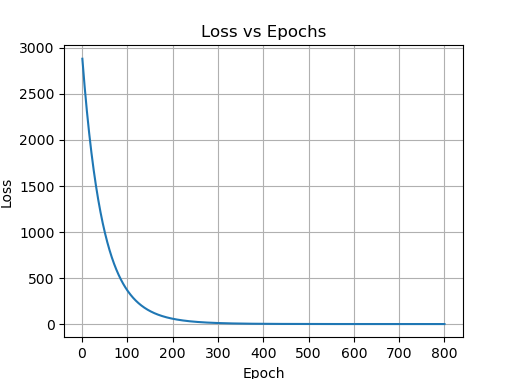
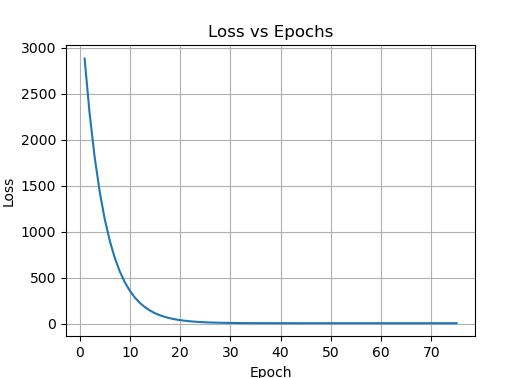
Loss gradient fixed

Changed region(s): [[0.0, 0.0582, 0.9027, 1.0]]

diff --git a/test/src/main.cpp b/test/src/main.cpp
@@ -62,9 +62,12 @@ void training() {
 
     // Linear regression training
     int epochs = 75;
-    double learningRate = 1.5e-8;
+    double learningRate = 1e-7;
 
     // Train
+    lr::LinearRegression::ExponentialDecay exponentialDecay(learningRate, 0.01);
+    //linearRegression.setExponentialDecay(exponentialDecay);
+
     linearRegression.train(epochs, learningRate);
 
     // Show loss

diff --git a/src/loss/Loss.cpp b/src/loss/Loss.cpp
@@ -33,8 +33,8 @@ Vector MSE::gradient(const Matrix& input, const Vector& y, const Vector& pred) {
         partialEpsilon += diff;
     }
 
-    partialTheta /= -(2.0 / y.size());
-    partialEpsilon /= -(2.0 / y.size());
+    partialTheta *= -(2.0 / y.size());
+    partialEpsilon *= -(2.0 / y.size());
 
     return { partialTheta, partialEpsilon };
 }
